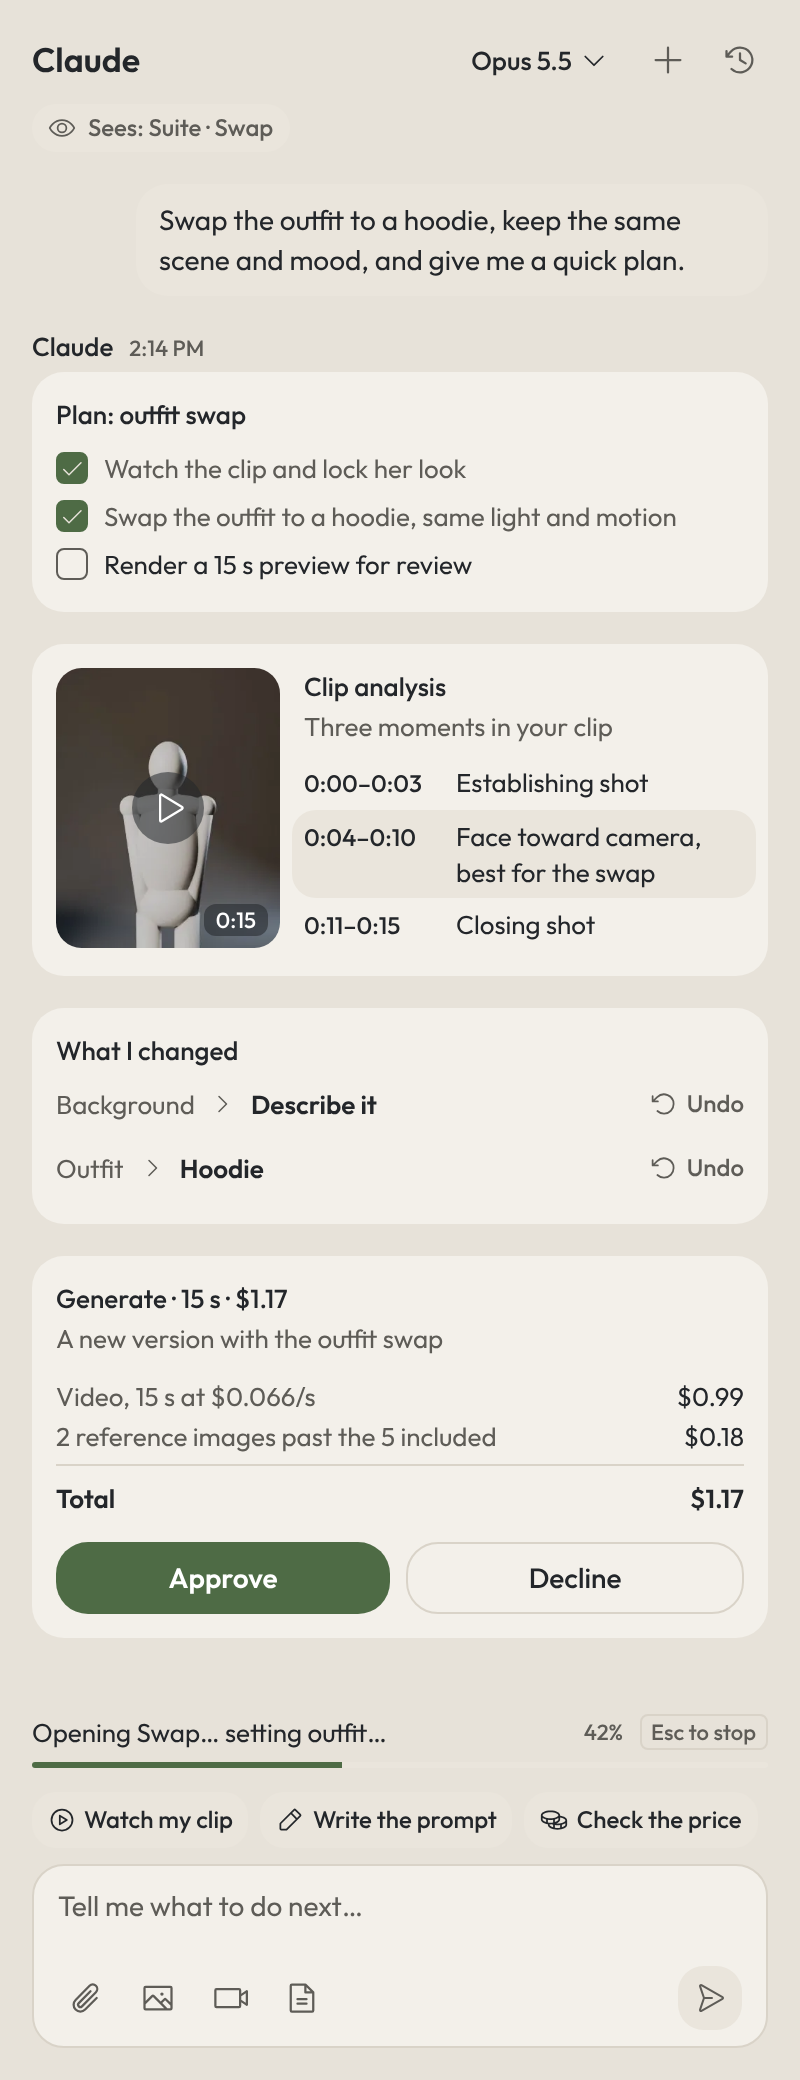
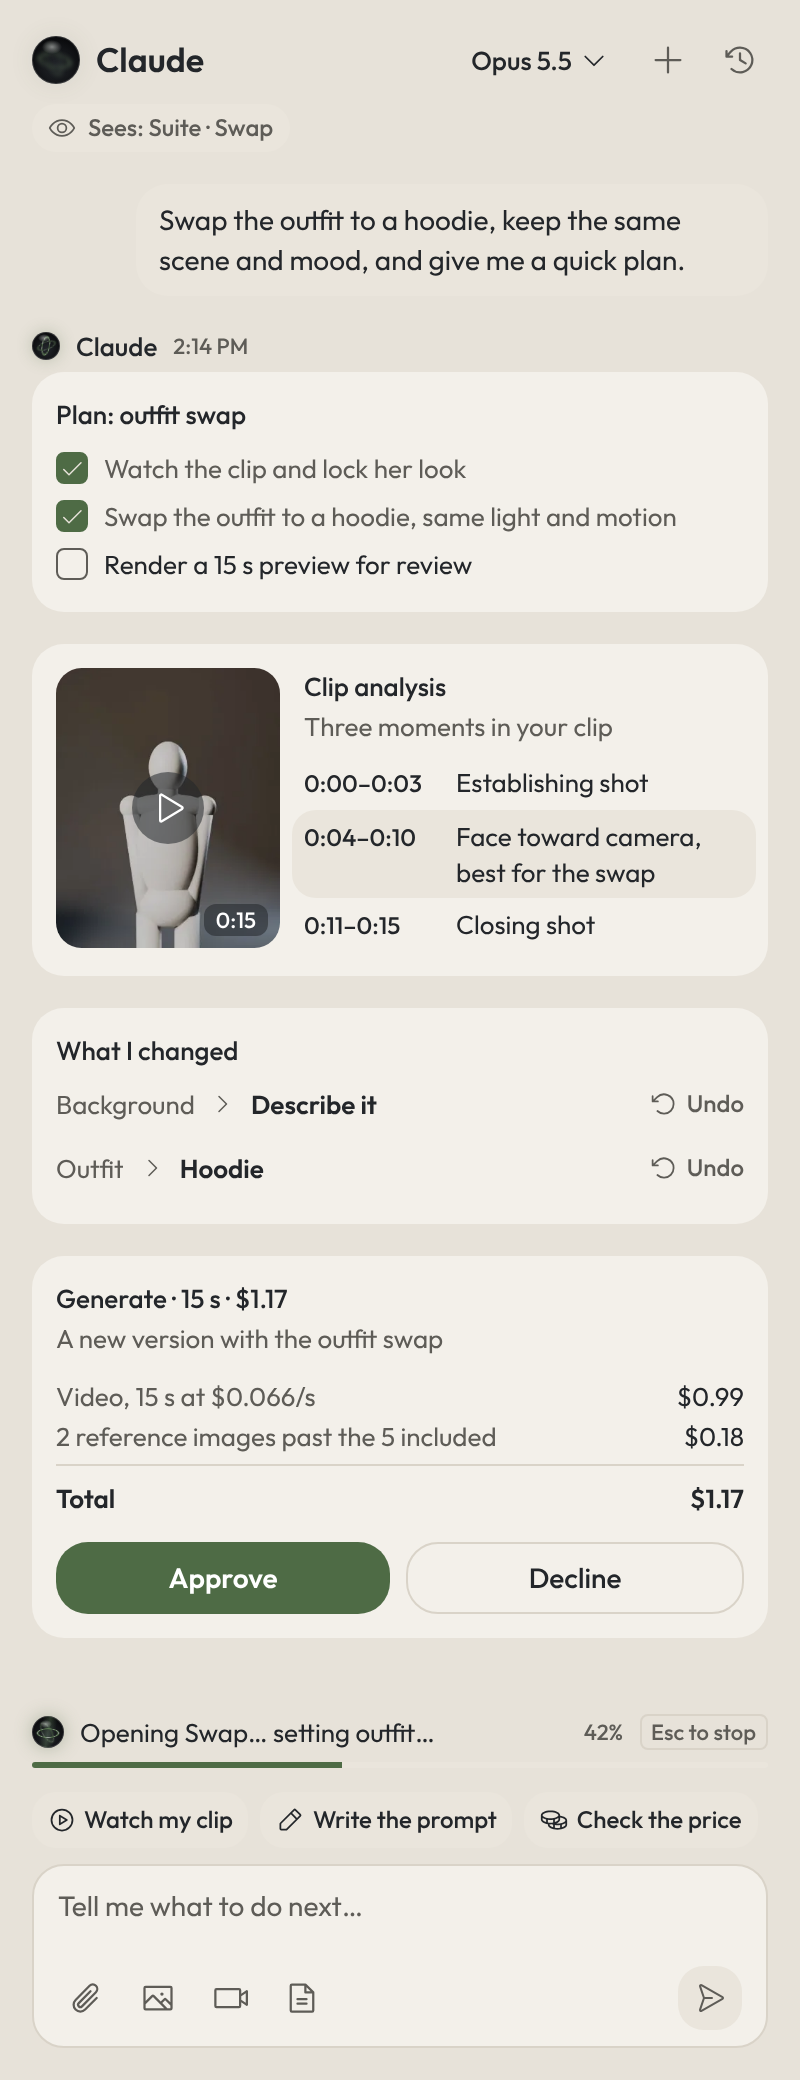
Claude panel mockups: floating panel over the app, Claude's orb (header, reply, activity strip, closed-panel pill) and its five states
Claude-Session: https://claude.ai/code/session_01Py2rxmq8ao4jRp3XB912nE

diff --git a/design/direction/claude_panel.py b/design/direction/claude_panel.py
@@ -26,6 +26,36 @@ POSITIVE = {"b": "#7BD88F", "a": "#2F6B3A", "c": "#4E6B45"}
 STILL = R.img(R.PV / "angles/mcu.webp")
 I = R.icon
 
+DANGER = {"b": "#FF6B5E", "a": "#B5121B", "c": "#A8382F"}
+ACCENT = {"b": "#F2A93B", "a": "#B5121B", "c": "#4E6B45"}
+# The orb (owner, 2026-11-12): MUSE's own design, not Siri's. A small dark glass sphere with one swirling light band tinted
+# by the theme's accent. The state sets the band's angle, its brightness and the glow (still frames of the motion).
+ORB_STATES = {
+    "idle":      dict(rot=210, band=.55, glow=.10, blur=1.2, label="Idle", note="Slow breathing"),
+    "writing":   dict(rot=300, band=.95, glow=.28, blur=0.8, label="Thinking, writing", note="Faster swirl, a pulse per chunk"),
+    "operating": dict(rot=20,  band=.85, glow=.35, blur=0.6, label="Operating MUSE", note="Directional sweep, a flash per action", sweep=True),
+    "waiting":   dict(rot=250, band=.70, glow=.45, blur=1.6, label="Waiting for you", note="Steady glow, slow pulse"),
+    "error":     dict(rot=200, band=.80, glow=.30, blur=1.0, label="Error", note="Red tint", red=True),
+}
+def orb(size, state, k):
+    st = ORB_STATES[state]
+    red = st.get("red")
+    # Error: the whole glass takes the danger tint and the band goes grey and still, so it reads as an error even where
+    # the theme's accent is itself red (Editorial).
+    c = "#B9B6B0" if red else ACCENT[k]
+    halo = DANGER[k] if red else ACCENT[k]
+    g = st["glow"]
+    fill = f"background:radial-gradient(circle at 50% 62%,{DANGER[k]}cc,#2a0d0c 75%);" if red else ""
+    def ring(rot, alpha, w):
+        return (f'<i style="position:absolute;inset:6%;border-radius:50%;transform:rotate({rot}deg);opacity:{alpha};filter:blur({size*st["blur"]/30:.2f}px);'
+                f'background:radial-gradient(ellipse 48% 20% at 50% 54%,transparent {62-w}%,{c} 74%,#fff9 78%,{c} 82%,transparent {90+w}%)"></i>')
+    sweep = (f'<i style="position:absolute;inset:0;border-radius:50%;background:linear-gradient(100deg,transparent 30%,{c}66 50%,transparent 70%);mix-blend-mode:screen"></i>'
+             if st.get("sweep") else "")
+    return (f'<span class="orb" role="img" aria-label="Claude" style="{fill}width:{size}px;height:{size}px;box-shadow:0 0 {size*.55:.0f}px {halo}{int(g*255):02x},inset 0 0 0 .5px rgba(255,255,255,.16)">'
+            f'{ring(st["rot"] % 180 - 20, st["band"] * (.45 if red else 1), 0)}{ring(st["rot"] % 180 + 40, st["band"] * .45, 4) if not red else ""}{sweep}'
+            f'<i style="position:absolute;left:22%;top:10%;width:40%;height:26%;border-radius:50%;background:radial-gradient(closest-side,rgba(255,255,255,.45),transparent)"></i></span>')
+ORB_CSS = ".orb{position:relative;display:inline-block;flex:none;border-radius:50%;overflow:hidden;background:radial-gradient(circle at 50% 62%,#24272c,#0a0b0d 72%)}"
+
 
 def css(t, k):
     f = t["text"]
@@ -38,7 +68,7 @@ def css(t, k):
 .menu{{height:28px;padding:0 8px;border-radius:var(--rp);display:inline-flex;align-items:center;gap:4px;font:500 13px/18px "{f}";color:var(--ink)}}
 .ib{{width:28px;height:28px;display:grid;place-items:center;color:var(--ink2);border-radius:var(--rp)}}
 .feed{{flex:1;min-height:0;overflow:hidden;padding:4px 16px 0;display:flex;flex-direction:column;gap:16px}}
-.who{{display:flex;align-items:baseline;gap:8px;margin-bottom:4px}}
+.who{{display:flex;align-items:center;gap:8px;margin-bottom:4px}}
 .you{{align-self:flex-end;max-width:86%;background:var(--field);border-radius:var(--rk);padding:8px 12px;font:400 14px/20px "{f}"}}
 .card{{background:var(--raised);border-radius:var(--rk);padding:12px}}
 .step{{display:flex;gap:8px;align-items:flex-start;font:400 13px/18px "{f}";padding:3px 0}}
@@ -70,7 +100,7 @@ def css(t, k):
 .ph{{font:400 14px/20px "{f}";color:var(--ink2);min-height:40px}}
 .send{{width:32px;height:32px;border-radius:calc(var(--rk) * .8);background:var(--field);color:var(--ink2);display:grid;place-items:center;margin-left:auto}}
 :root{{--pos:{POSITIVE[k]}}}
-"""
+"""+ORB_CSS
 
 
 def panel(t, k):
@@ -82,7 +112,7 @@ def panel(t, k):
     undo = f'<span class="undo">{I("arrow-counter-clockwise", 14)}Undo</span>'
     return f"""<div class="p">
  <div class="hd">
-  <div class="row gap2"><div class="t17 grow">Claude</div>
+  <div class="row gap2">{orb(24, "idle", k)}<div class="t17 grow">Claude</div>
    <div class="menu">Opus 5.5{I("caret-down", 14)}</div>
    <div class="ib" title="New chat">{I("plus", 18)}</div><div class="ib" title="History">{I("clock-counter-clockwise", 18)}</div></div>
   <div><span class="pill">{I("eye", 14)}Sees: Suite · Swap</span></div>
@@ -90,7 +120,7 @@ def panel(t, k):
  <div class="feed">
   <div class="you">Swap the outfit to a hoodie, keep the same scene and mood, and give me a quick plan.</div>
   <div>
-   <div class="who"><span class="t13m">Claude</span><span class="t11 ink2">2:14 PM</span></div>
+   <div class="who">{orb(14, "writing", k)}<span class="t13m">Claude</span><span class="t11 ink2">2:14 PM</span></div>
    <div class="card"><div class="t13m" style="margin-bottom:6px">Plan: outfit swap</div>{plan}</div>
   </div>
   <div class="card row gap3" style="align-items:flex-start">
@@ -110,7 +140,7 @@ def panel(t, k):
   </div>
  </div>
  <div class="act">
-  <div class="row gap2 t13"><span class="grow">Opening Swap… setting outfit…</span><span class="t11 ink2">42%</span><span class="key">Esc to stop</span></div>
+  <div class="row gap2 t13">{orb(16, "operating", k)}<span class="grow">Opening Swap… setting outfit…</span><span class="t11 ink2">42%</span><span class="key">Esc to stop</span></div>
   <div class="bar"><i style="width:42%"></i></div>
  </div>
  <div class="chips"><span class="chip">{I("play-circle", 14)}Watch my clip</span><span class="chip">{I("pencil-simple", 14)}Write the prompt</span><span class="chip">{I("coins", 14)}Check the price</span></div>
@@ -121,17 +151,55 @@ def panel(t, k):
 </div>"""
 
 
+def app_backdrop(t):
+    """A plain MUSE page under the floating panel (sidebar, the frame, a filmstrip). Chrome only: the panel is the subject."""
+    still = R.img(R.PV / "angles/ms.webp")
+    side = "".join(f'<div class="t13" style="padding:8px 12px;border-radius:var(--rp);{"background:var(--field);" if i == 1 else ""}color:{"var(--ink)" if i == 1 else "var(--ink2)"}">{n}</div>'
+                   for i, n in enumerate(["Home", "Suite", "Edit", "Library", "Cast", "Queue"]))
+    strip = "".join(f'<div style="flex:1;height:64px;border-radius:var(--rp);background:url({still}) center/cover;opacity:{.5 + .1 * (i % 3)}"></div>' for i in range(8))
+    return (f'<div style="position:absolute;inset:0;display:flex">'
+            f'<div style="width:200px;background:var(--raised);padding:20px 12px;display:flex;flex-direction:column;gap:4px"><div class="t17" style="padding:0 12px 16px">MUSE</div>{side}</div>'
+            f'<div style="flex:1;padding:32px;display:flex;flex-direction:column;gap:24px"><div class="t17">Swap</div>'
+            f'<div style="flex:1;border-radius:var(--rc);background:url({still}) center/cover"></div><div style="display:flex;gap:8px">{strip}</div></div></div>')
+
+def floating(t, k):
+    c = ACCENT[k]
+    shadow = "0 24px 64px rgba(0,0,0,.55)" if k == "b" else "0 24px 64px rgba(20,18,16,.22)"
+    return (app_backdrop(t) +
+            f'<div style="position:absolute;right:24px;top:24px;bottom:24px;width:400px;border-radius:calc(var(--rc) + 4px);overflow:hidden;'
+            f'background:var(--canvas);box-shadow:{shadow},0 0 0 1px {c}59,0 0 28px {c}26">{panel(t, k)}</div>'
+            f'<div class="t11 ink2" style="position:absolute;right:40px;bottom:30px;opacity:.0">resize</div>')
+
+def closed(t, k):
+    """The panel closed while Claude operates MUSE: the floating orb with "Claude is using MUSE · Esc to stop"."""
+    c = ACCENT[k]
+    ring = f'<div style="position:absolute;left:520px;top:640px;width:150px;height:40px;border-radius:12px;box-shadow:0 0 0 2px {c}aa,0 0 18px {c}55"></div>'
+    pill = (f'<div style="position:absolute;left:50%;top:18px;transform:translateX(-50%);display:flex;align-items:center;gap:10px;padding:6px 14px 6px 8px;'
+            f'border-radius:999px;background:var(--raised);box-shadow:0 8px 24px rgba(0,0,0,.3),0 0 0 1px {c}40">{orb(22, "operating", k)}'
+            f'<span class="t13">Claude is using MUSE</span><span class="key">Esc to stop</span></div>')
+    return app_backdrop(t) + ring + pill
+
+def states(t, k):
+    cells = "".join(f'<div style="display:flex;flex-direction:column;align-items:center;gap:10px;width:140px">{orb(56, s, k)}'
+                    f'<div class="t13m">{v["label"]}</div><div class="t11 ink2" style="text-align:center">{v["note"]}</div></div>'
+                    for s, v in ORB_STATES.items())
+    return f'<div style="padding:32px 24px;display:flex;justify-content:space-between">{cells}</div>'
+
+
 def main():
     OUT.mkdir(parents=True, exist_ok=True)
-    W, H = 400, 1040
+    pages = [(f"panel-{k}", panel, k, 400, 1040) for k in ("b", "a", "c")]
+    pages += [(f"float-{k}", floating, k, 1440, 900) for k in ("b", "a", "c")]
+    pages += [(f"orb-states-{k}", states, k, 760, 200) for k in ("b", "a", "c")]
+    pages += [("closed-b", closed, "b", 1440, 900)]
     with tempfile.TemporaryDirectory() as tmp:
         spec = []
-        for k in ("b", "a", "c"):
+        for name, fn, k, W, H in pages:
             t = THEMES[k]
-            f = Path(tmp) / f"panel-{k}.html"
+            f = Path(tmp) / f"{name}.html"
             f.write_text(f'<!doctype html><meta charset="utf-8"><style>{R.css(t)}{css(t, k)}</style>'
-                         f'<body style="width:{W}px;height:{H}px;overflow:hidden">{panel(t, k)}</body>')
-            spec.append({"html": f.as_uri(), "png": str(OUT / f"panel-{k}.png"), "w": W, "h": H})
+                         f'<body style="width:{W}px;height:{H}px;overflow:hidden;position:relative">{fn(t, k)}</body>')
+            spec.append({"html": f.as_uri(), "png": str(OUT / f"{name}.png"), "w": W, "h": H})
         js = Path(tmp) / "shot.js"
         js.write_text("""const { chromium } = require('playwright');
 (async () => { const jobs = JSON.parse(process.argv[2]); const b = await chromium.launch();
